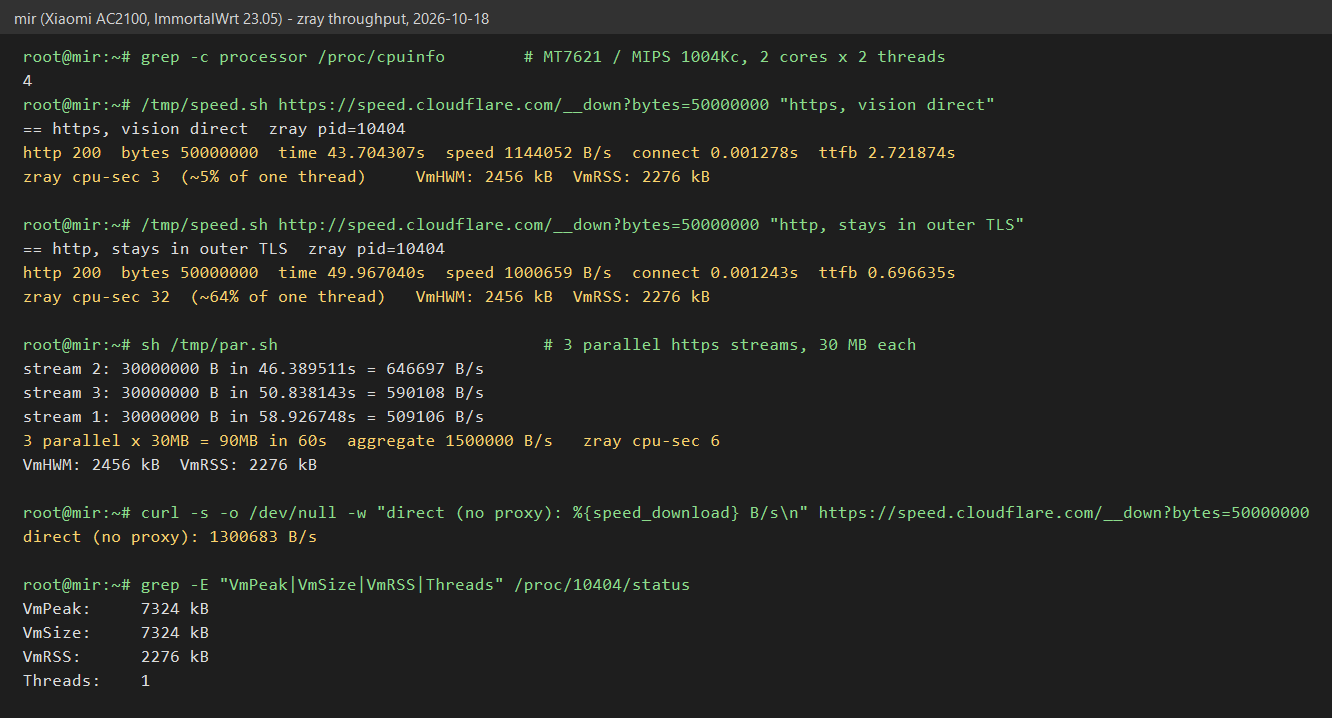
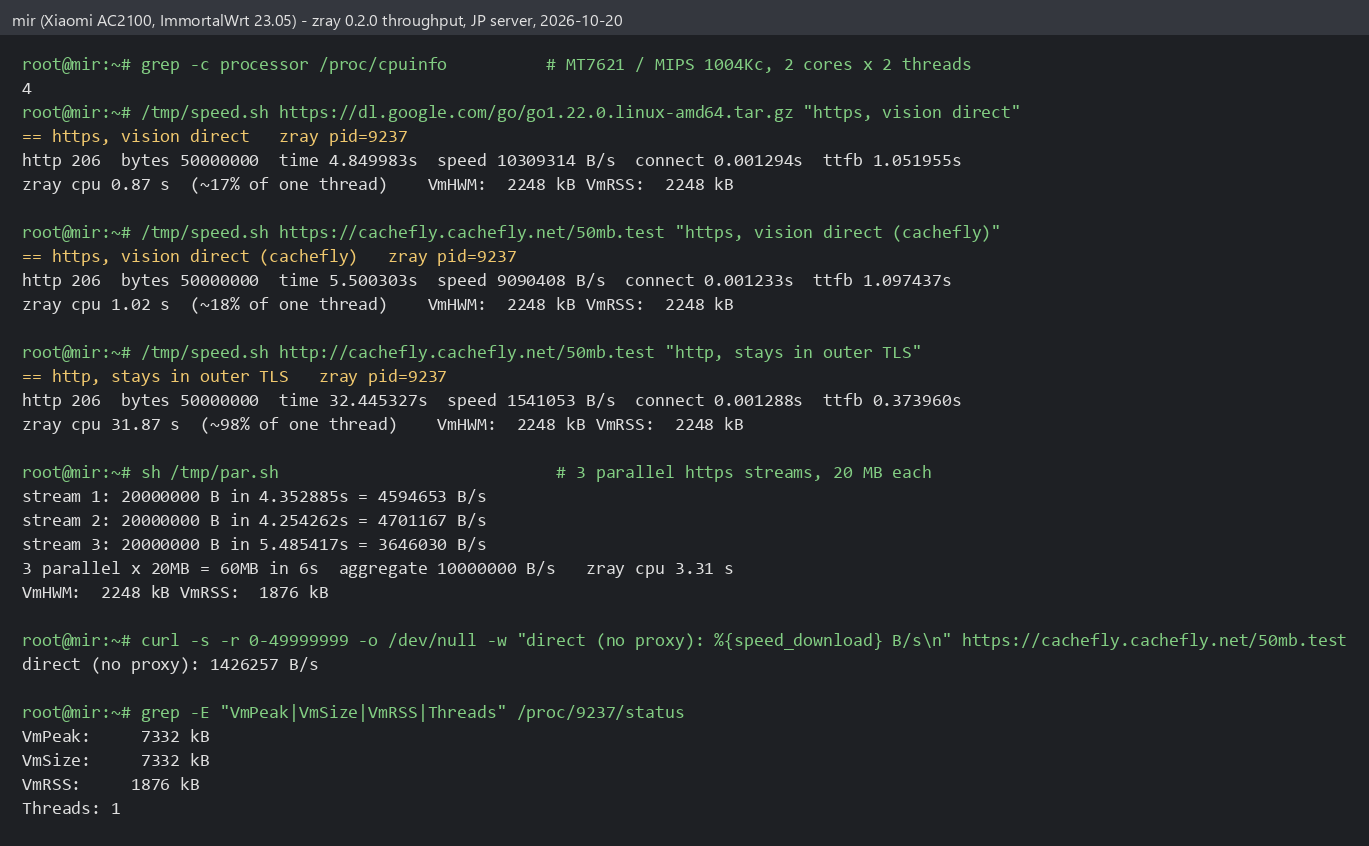
docs: remeasure throughput on mir with a JP server and a 4 MB tcp_rmem ceiling
The earlier 1.0-1.1 MB/s was not the link: the kernel's default
tcp_rmem ceiling (~930 KB) capped a single stream at window / RTT. With
the ceiling at 4 MB and a Japan REALITY server (~110 ms RTT) HTTPS
through the tunnel does 9-10 MB/s at ~17 % CPU; HTTP inside the outer
TLS stays CPU-bound at 1.5 MB/s. Update both READMEs, add a note on the
sysctl, and replace the screenshot.

diff --git a/README.md b/README.md
@@ -12,18 +12,29 @@ connection slots allocated up front. Memory use is decided at startup and does
 not grow with traffic.
 
 Reference deployment: Xiaomi AC2100 (MT7621, MIPS 1004Kc, soft-float,
-ImmortalWrt 23.05): 798 KB static binary, 7.3 MB VSZ / ~2.3 MB RSS with
-64 slots. Measured on that box, pulling 50 MB from speed.cloudflare.com
-through the tunnel (the WAN link itself does 1.3 MB/s to the same host):
+ImmortalWrt 23.05): 802 KB static binary, 7.3 MB VSZ / ~2.2 MB RSS with
+64 slots. Measured on that box against a REALITY server in Japan (~110 ms
+RTT), pulling 50 MB through the tunnel:
 
-| Path                                   | Throughput | zray CPU (one 1004Kc thread) |
-|----------------------------------------|-----------:|-----------------------------:|
-| HTTPS, Vision switched to direct copy  | 1.0-1.1 MB/s | ~5 %                       |
-| HTTP, stays inside outer TLS (sw AES-GCM) | 1.0 MB/s | ~64 %                      |
-| 3 parallel HTTPS streams               | 1.5 MB/s aggregate | ~10 %              |
+| Path                                      | Throughput | zray CPU (one 1004Kc thread) |
+|-------------------------------------------|-----------:|-----------------------------:|
+| HTTPS, Vision switched to direct copy     | 9-10 MB/s  | ~17 %                        |
+| HTTP, stays inside outer TLS (sw AES-GCM) | 1.5 MB/s   | ~98 %                        |
+| 3 parallel HTTPS streams                  | 10 MB/s aggregate | ~55 %                 |
 
-The tunnel is link-bound, not CPU-bound; software AES-GCM on this core tops
-out around 1.5 MB/s, which is why Vision's direct copy matters here.
+The same host fetched directly over the WAN, without the tunnel, does
+1.4 MB/s: the ISP's international path is the slow part. HTTPS through the
+tunnel is bound by the server link; HTTP, which cannot leave the outer TLS,
+is CPU-bound, since software AES-GCM on this core tops out around 1.5 MB/s.
+That is why Vision's direct copy matters here.
+
+One kernel knob matters on a box like this: the default `net.ipv4.tcp_rmem`
+ceiling with 128 MB of RAM is about 930 KB, which caps a single stream at
+roughly window / RTT, about 1 MB/s at 190 ms. Raising the ceiling (for
+example `net.ipv4.tcp_rmem = 4096 131072 4194304` in `/etc/sysctl.d/`)
+lifted the HTTPS numbers above from ~1 MB/s to what the table shows. Do not
+set `sock_buf` for this; it disables the kernel's autotuning and is clamped
+by `net.core.rmem_max`.
 
 ![throughput on mir](docs/images/throughput-mir.png)
 

diff --git a/docs/README.zh-CN.md b/docs/README.zh-CN.md
@@ -10,17 +10,24 @@
 确定，不随流量增长。
 
 参考部署：小米 AC2100（MT7621，MIPS 1004Kc，软浮点，ImmortalWrt 23.05）——
-静态二进制 798 KB，64 个槽位时虚拟内存 7.3 MB、RSS 约 2.3 MB。在这台机器上
-经隧道从 speed.cloudflare.com 拉 50 MB 的实测（同一主机 WAN 直连为 1.3 MB/s）：
+静态二进制 802 KB，64 个槽位时虚拟内存 7.3 MB、RSS 约 2.2 MB。在这台机器上
+经隧道连接日本的 REALITY 服务器（RTT 约 110 ms）拉取 50 MB 的实测：
 
 | 路径                                  | 吞吐 | zray CPU（单个 1004Kc 线程） |
 |---------------------------------------|-----:|-----------------------------:|
-| HTTPS，Vision 已切到 direct 直拷        | 1.0–1.1 MB/s | 约 5 %              |
-| HTTP，留在外层 TLS 内（软算 AES-GCM）   | 1.0 MB/s | 约 64 %                 |
-| 3 路 HTTPS 并发                        | 合计 1.5 MB/s | 约 10 %            |
+| HTTPS，Vision 已切到 direct 直拷        | 9–10 MB/s | 约 17 %                 |
+| HTTP，留在外层 TLS 内（软算 AES-GCM）   | 1.5 MB/s | 约 98 %                  |
+| 3 路 HTTPS 并发                        | 合计 10 MB/s | 约 55 %              |
 
-瓶颈在链路而不在 CPU；这颗核软算 AES-GCM 的上限约 1.5 MB/s，这正是 Vision
-的 direct 直拷在这类设备上有意义的原因。
+同一主机不走隧道、由 WAN 直连只有 1.4 MB/s，慢的是运营商的国际出口。走隧道的
+HTTPS 受服务器链路限制；HTTP 无法脱离外层 TLS，受 CPU 限制——这颗核软算
+AES-GCM 的上限约 1.5 MB/s，这正是 Vision 的 direct 直拷在这类设备上有意义的原因。
+
+这类设备有一个内核参数需要留意：128 MB 内存下 `net.ipv4.tcp_rmem` 的默认上限
+约 930 KB，单条流的吞吐被限制在大约“窗口 / RTT”，190 ms 时约 1 MB/s。把上限
+调高（例如在 `/etc/sysctl.d/` 里写 `net.ipv4.tcp_rmem = 4096 131072 4194304`）
+之后，上表的 HTTPS 数字才从约 1 MB/s 提升到现在的水平。不要用 `sock_buf` 来
+解决这个问题：它会关掉内核的自动调优，而且会被 `net.core.rmem_max` 截断。
 
 ![mir 上的吞吐实测](images/throughput-mir.png)
 
